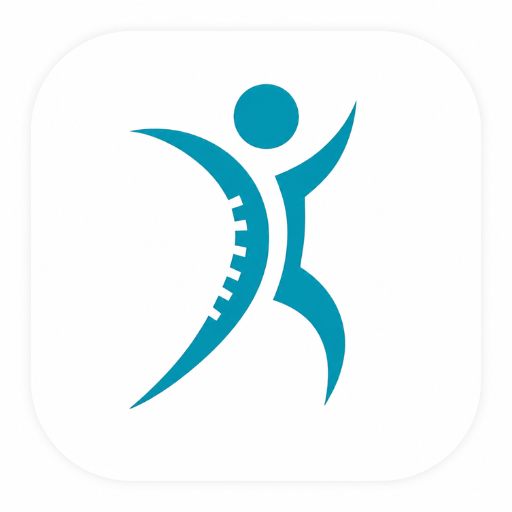
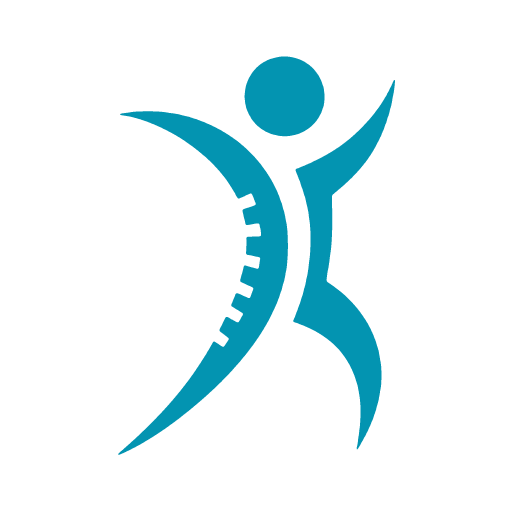
Icône de l'appli : bonhomme plus grand et centré
Icônes redessinées à partir du même logo, contours nets : le bonhomme
occupe 78 % de la hauteur (au lieu de 63 %), sans le carré arrondi
intégré à l'image, et il est centré. L'icône Android adaptative reste
dans la zone sûre.

Claude-Session: https://claude.ai/code/session_01M6b6s6HFfRrDDUroJZgUYa

Changed region(s): [[0.2188, 0.0938, 0.7812, 0.875], [0.25, 0.7812, 0.2812, 0.8125], [0.2188, 0.875, 0.25, 0.9062]]

diff --git a/sw.js b/sw.js
@@ -1,6 +1,6 @@
 /* Service worker : application utilisable hors connexion, mises à jour en douceur. */
 
-const VERSION = "gt-2.1.4";
+const VERSION = "gt-2.1.5";
 const SHELL = `${VERSION}-shell`;
 const MEDIA = `${VERSION}-media`;
 
